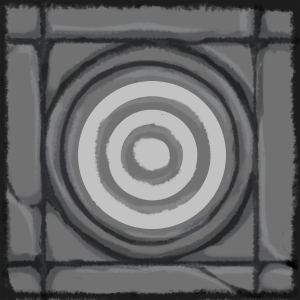
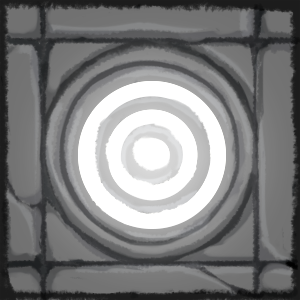
光測試_1圓圈機關可行

diff --git a/Assets/Script/role/PlayerManager.cs b/Assets/Script/role/PlayerManager.cs
@@ -83,9 +83,9 @@ namespace com.DungeonPad
             {
                 float dis = Vector3.Distance(GameManager.players.GetChild(0).localPosition, GameManager.players.GetChild(1).localPosition);
                 float hpUpRate = (2.5f - dis) * 2;
-                if (hpUpRate > 1 && Players.fightingTimer >= 5)
+                if (hpUpRate > 0 && Players.fightingTimer >= 5)
                 {
-                    hpUpRate *= hpUpRate;
+                    hpUpRate *= 4;
                     print(hpUpRate);
                 }
                 HP += hpUpRate * Time.deltaTime;
@@ -531,7 +531,7 @@ namespace com.DungeonPad
                     HardStraightTimer = 0;
                     DashA = Vector3.zero;
                     HardStraightA = (Vector2)Vector3.Normalize(transform.position - collision.transform.position) * 10;
-                    HP -= 5;
+                    HP -= 10;
                     playerJoyVibration.hurt();
 
                     //玩家進入無敵狀態

diff --git a/Assets/Script/role/PlayerAttack.cs b/Assets/Script/role/PlayerAttack.cs
@@ -20,7 +20,7 @@ namespace com.DungeonPad
                     if (collider.GetComponent<MonsterManager>().Armor <= 0)
                     {
                         Debug.LogWarning("hitTimes");
-                        PlayerManager.HP += 5;
+                        PlayerManager.HP += 10;
                         collider.GetComponent<MonsterManager>().beforeDied();
                         Destroy(collider.gameObject);
                     }
